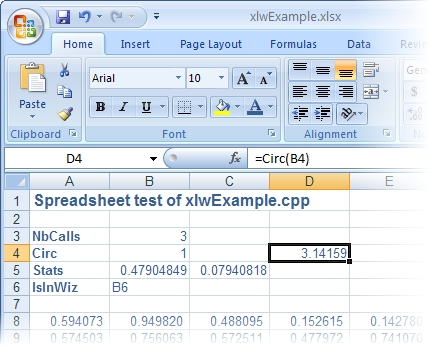
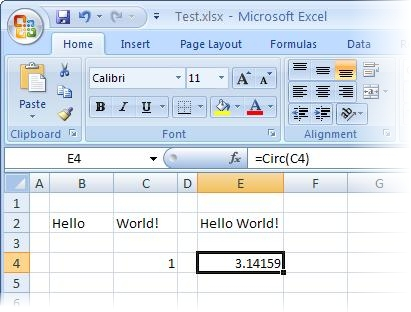
On home page replace screenshot of old example app with screenshot of InterfaceGenerator example

diff --git a/trunk/xlw-site/xlw.css b/trunk/xlw-site/xlw.css
@@ -271,3 +271,17 @@ dd { margin-left: 18px; }
     /*margin: 10px 10px 10px 200px;*/
 }
 
+.fragment {
+       font-family: monospace, fixed;
+       font-size: 95%;
+}
+PRE.fragment {
+	border: 1px solid #CCCCCC;
+	background-color: #f5f5f5;
+    margin: 10px 0px 10px 0px;
+    padding: 4px 6px 4px 6px;
+}
+SPAN.keyword       { color: blue }
+SPAN.comment       { color: green }
+SPAN.preprocessor  { color: red }
+
